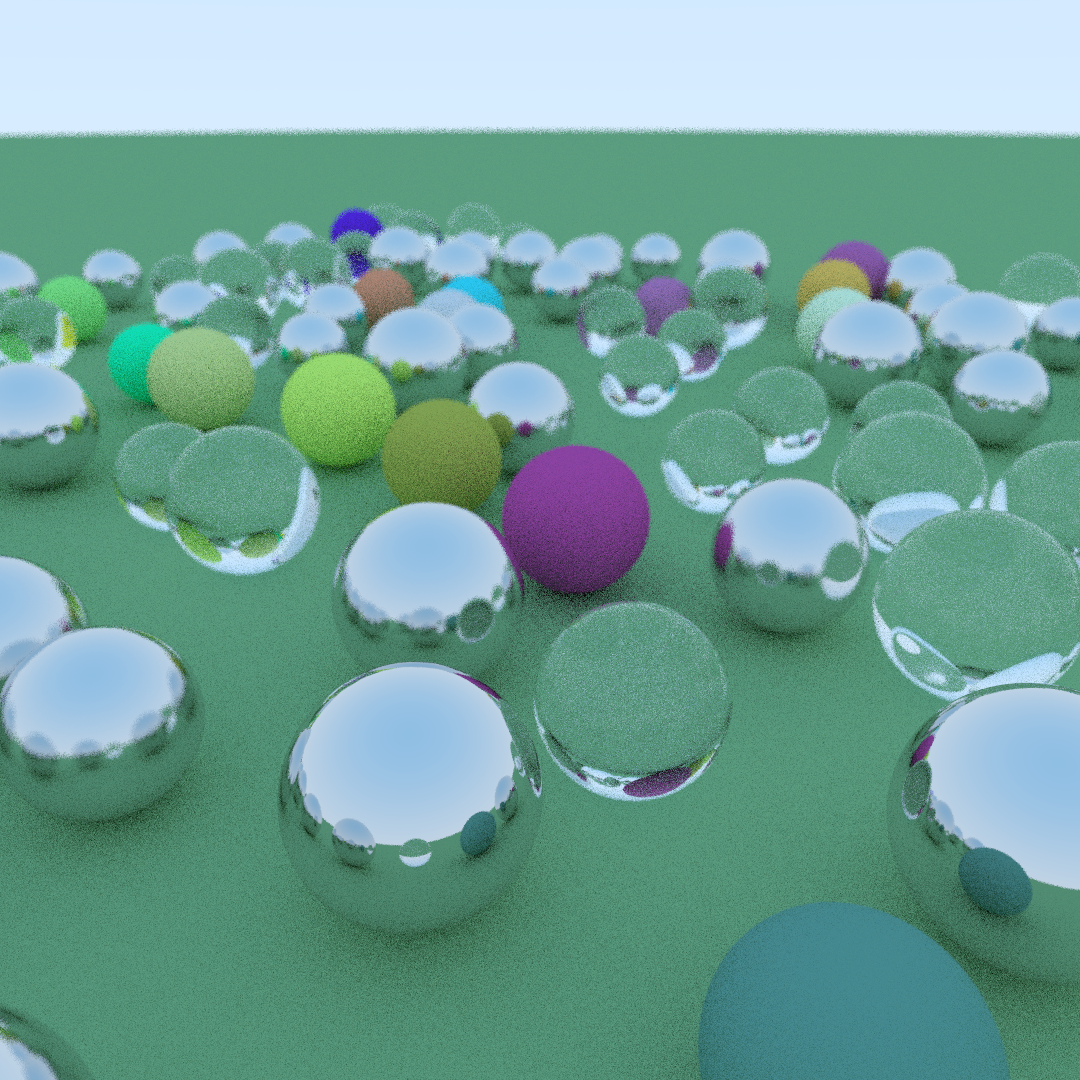
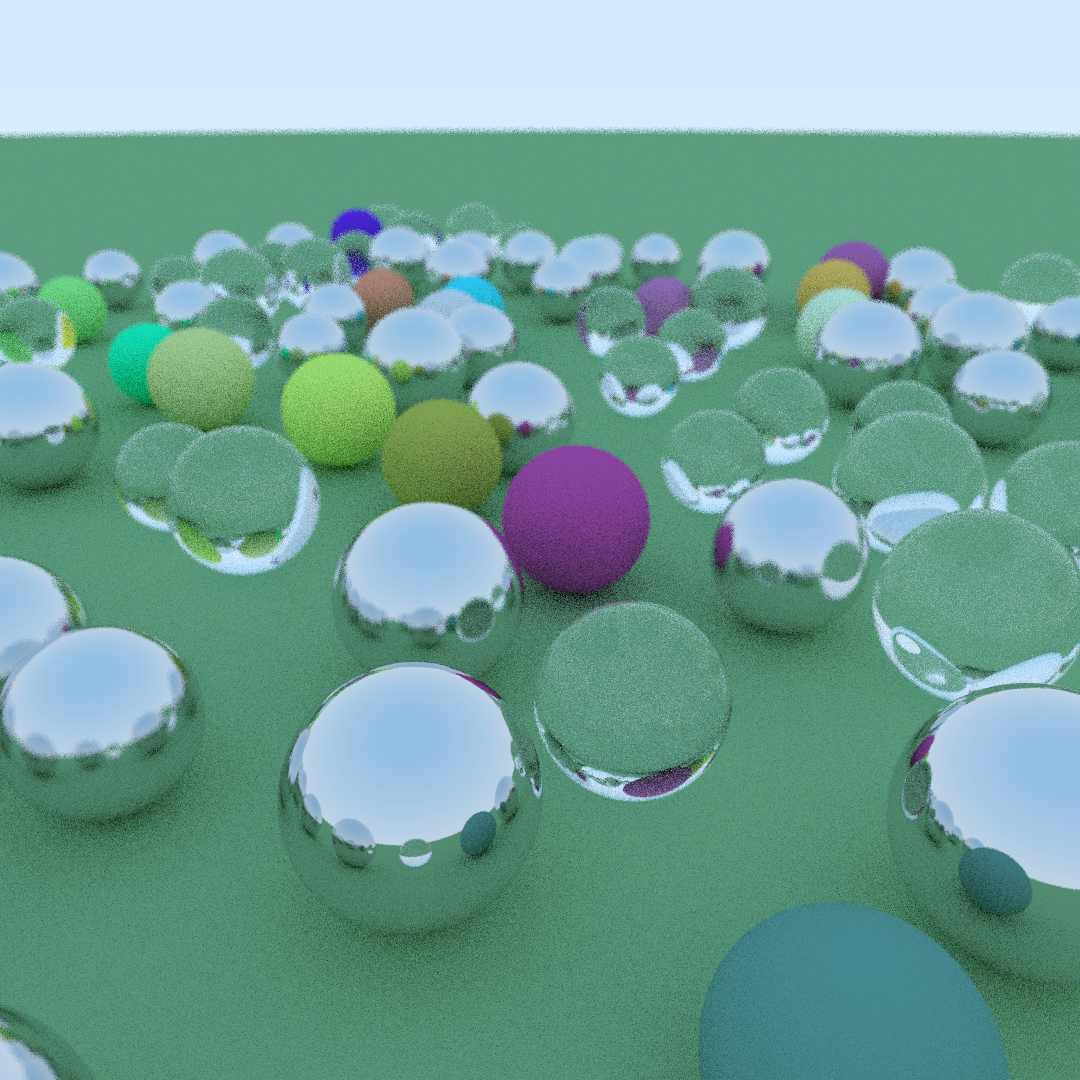
Misc refactor

diff --git a/src/camera.rs b/src/camera.rs
@@ -22,47 +22,50 @@ pub struct Camera {
     aperture_angle: f64,
 }
 
+pub struct CameraConfig {
+    pub aspect_ratio: f64,
+    pub pixel_height: u32,
+    pub vfov: f64,
+    pub center: Point,
+    pub direction: Vec3,
+    pub up_direction: Vec3,
+    pub focus_dist: f64,
+    pub aperture_angle: f64,
+}
+
 impl Camera {
-    pub fn new(
-        aspect_ratio: f64,
-        pixel_height: u32,
-        vfov: f64,
-        center: Point,
-        direction: Vec3,
-        up_direction: Vec3,
-        focus_dist: f64,
-        aperture_angle: f64,
-    ) -> Self {
-        if vfov <= 0.0 || focus_dist <= 0.0 {
+    pub fn new(config: CameraConfig) -> Self {
+        if config.vfov <= 0.0 || config.focus_dist <= 0.0 {
             panic!("Focus distance and vertical fov must be positive and non-zero.")
         }
 
-        let vfov = vfov.to_radians();
-        let pixel_width = (pixel_height as f64 * aspect_ratio) as u32;
-        let viewport_height = 2.0 * focus_dist * (vfov / 2.0).tan();
-        let viewport_width = viewport_height * (pixel_width as f64 / pixel_height as f64);
+        let vfov = config.vfov.to_radians();
+        let pixel_width = (config.pixel_height as f64 * config.aspect_ratio) as u32;
+        let viewport_height = 2.0 * config.focus_dist * (vfov / 2.0).tan();
+        let viewport_width = viewport_height * (pixel_width as f64 / config.pixel_height as f64);
 
-        let direction = direction.normalize();
-        let up_direction = (up_direction - up_direction.dot(direction) * direction).normalize();
+        let direction = config.direction.normalize();
+        let up_direction =
+            (config.up_direction - config.up_direction.dot(direction) * direction).normalize();
 
         let pixel_delta_x =
             (direction.cross(up_direction)).normalize() * viewport_width / pixel_width as f64;
 
-        let pixel_delta_y = -up_direction * viewport_height / pixel_height as f64;
+        let pixel_delta_y = -up_direction * viewport_height / config.pixel_height as f64;
 
-        let top_left = center + focus_dist * direction
+        let top_left = config.center + config.focus_dist * direction
             - viewport_width / 2. * pixel_delta_x.normalize()
             + viewport_height / 2. * up_direction;
 
         Self {
             pixel_width,
-            pixel_height,
-            center,
+            pixel_height: config.pixel_height,
+            center: config.center,
             pixel_delta_x,
             pixel_delta_y,
             top_left,
-            focus_dist,
-            aperture_angle: aperture_angle.to_radians(),
+            focus_dist: config.focus_dist,
+            aperture_angle: config.aperture_angle.to_radians(),
         }
     }
 

diff --git a/src/main.rs b/src/main.rs
@@ -1,11 +1,11 @@
 use std::fs;
-use std::{sync::Arc, time::Instant};
-
+use std::sync::Arc;
 use anyhow::Result;
+use raytracer::camera::CameraConfig;
+use raytracer::interval::Interval;
 use raytracer::shape::Sphere;
 use raytracer::{
     camera::Camera,
-    interval::Interval,
     material::{Lambertian, Material, Metal, Refractive},
     scene::Scene,
     shape::Shape,
@@ -56,20 +56,22 @@ fn main() -> Result<()> {
         fs::write("scene.json", scene_json)?;
     }
 
-    let camera = Camera::new(
-        1.0,
-        1080,
-        60.0,
-        Point::new(0.0, 0.0, 3.0),
-        Vec3::new(1.0, 0.75, -0.6),
-        Vec3::new(0.0, 0.0, 1.0),
-        3.5,
-        0.6,
-    );
+    let config = CameraConfig {
+        aspect_ratio: 1.0,
+        pixel_height: 1080,
+        vfov: 60.0,
+        center: Point::new(0.0, 0.0, 3.0),
+        direction: Vec3::new(1.0, 0.75, -0.6),
+        up_direction: Vec3::new(0.0, 0.0, 1.0),
+        focus_dist: 4.0,
+        aperture_angle: 0.6,
+    };
+
+    let camera = Camera::new(config);
 
     let ray_t = Interval::new(0.001, f64::INFINITY);
 
-    let start = Instant::now();
+    let start = std::time::Instant::now();
 
     let image = camera.render(&scene, ray_t, 10);
 

diff --git a/src/interval.rs b/src/interval.rs
@@ -35,6 +35,12 @@ impl Interval {
     pub fn clamp(&self, x: f64) -> f64 {
         x.clamp(self.min, self.max)
     }
+
+    pub fn overlap(&self, second: &Self, third: &Self) -> bool {
+        let min = self.min.max(second.min.max(third.min));
+        let max = self.max.min(second.max.min(third.max));
+        min < max
+    }
 }
 
 impl Default for Interval {
